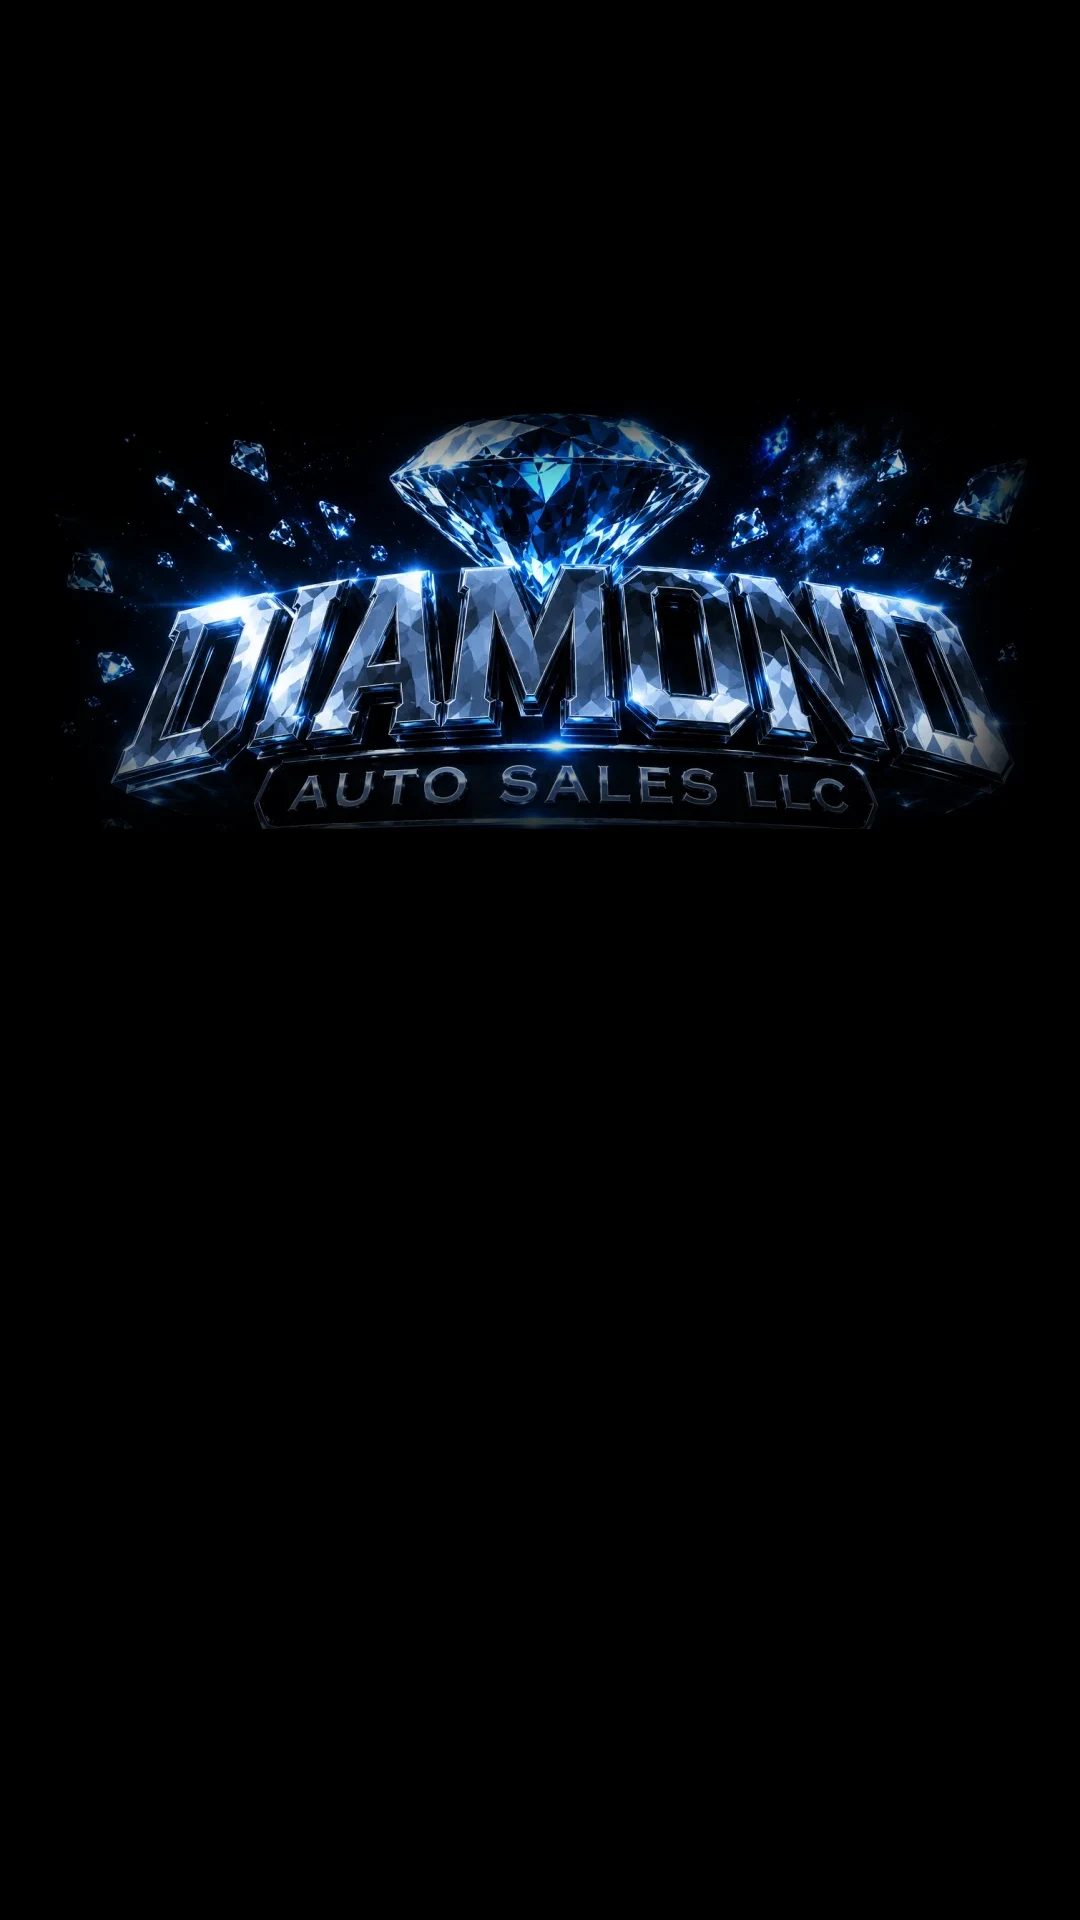
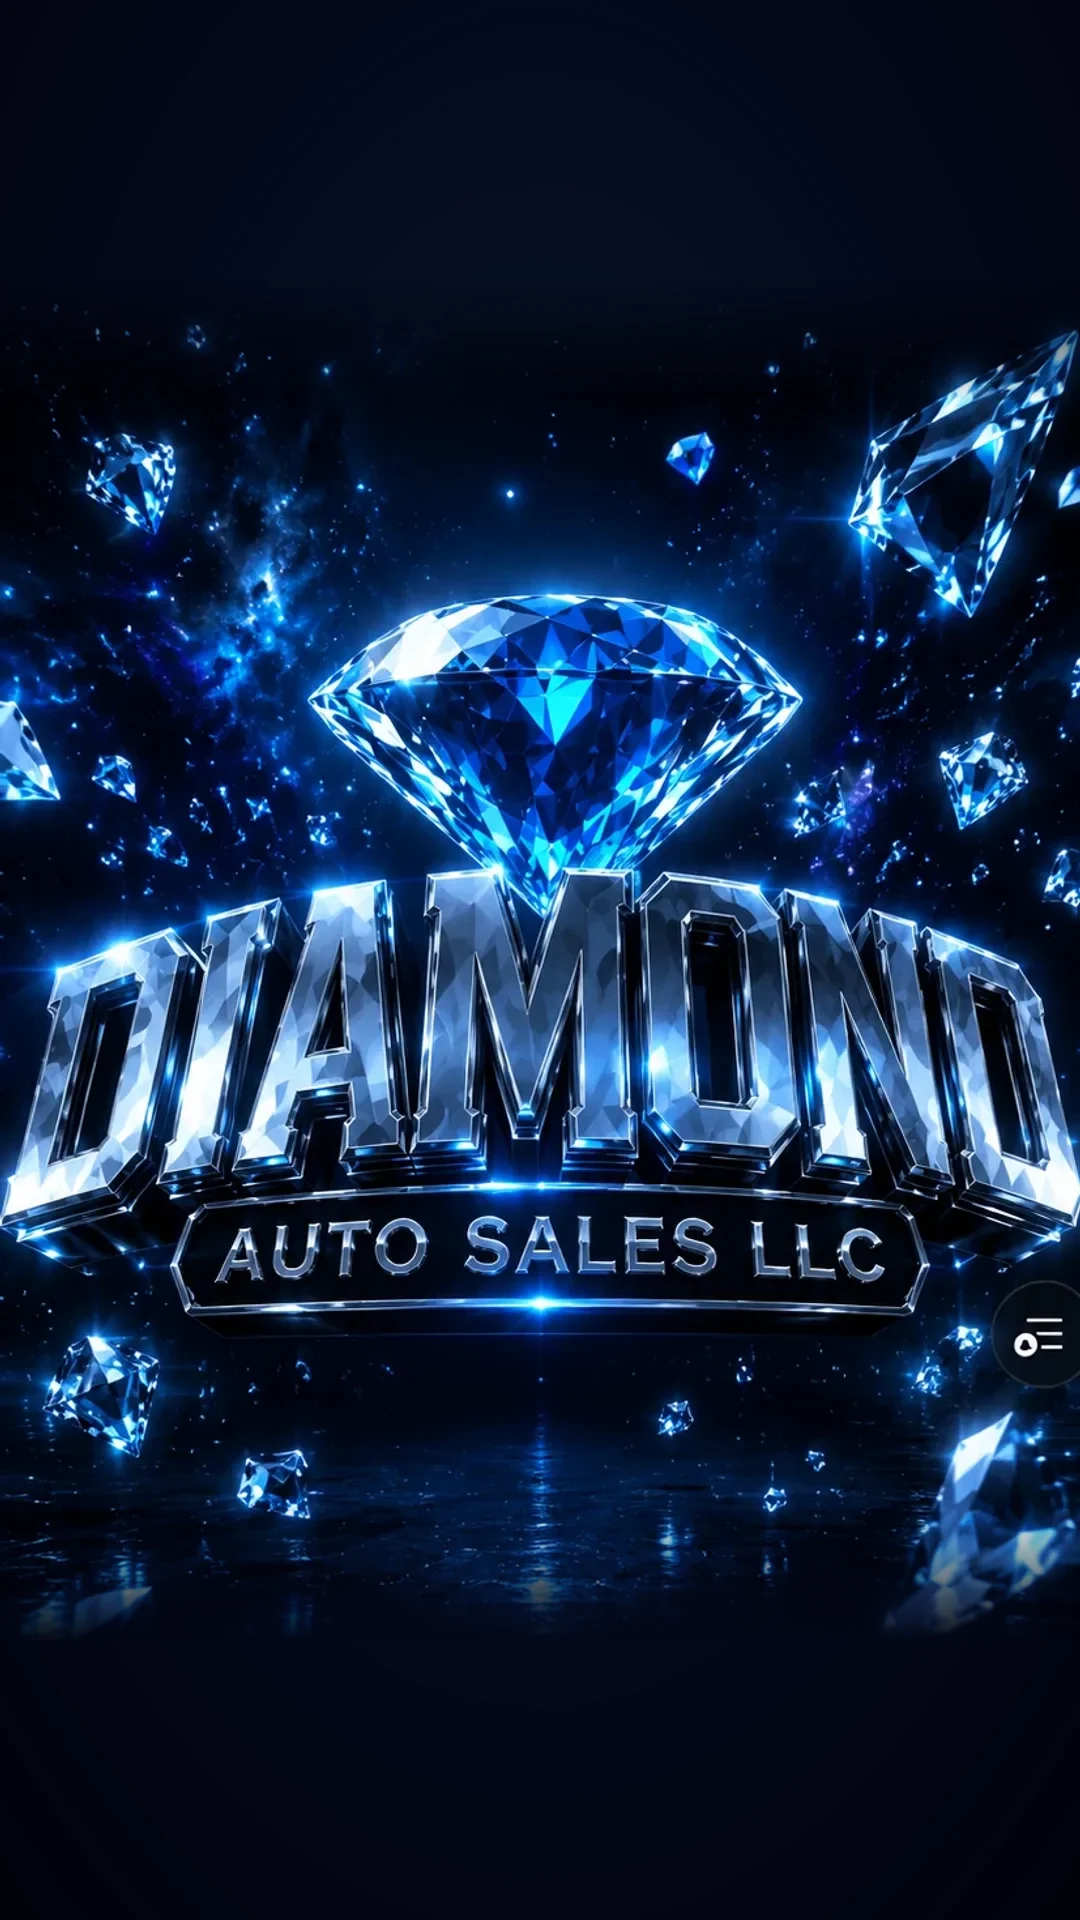
Lock mobile hero to dense reference composition (flat, temporary)
Per request: drop the reference scene in as the mobile hero asset to lock
the composition. Compose the dense scene (big diamond above full logo,
floating shards, nebula, floor reflections) onto a 9:16 frame with the
cosmic extended top/bottom so the wide logo isn't clipped by object-cover
and there's no empty black. Mobile shows this flat composition (live scene
disabled on coarse-pointer for now); desktop keeps the live layered scene.
CTAs sit just below, bottom gradient lightened so the floor shows.

Claude-Session: https://claude.ai/code/session_0183v9Wa41FprfpLiLFAJjKU

diff --git a/src/components/site/BrandHero.tsx b/src/components/site/BrandHero.tsx
@@ -39,7 +39,9 @@ function sceneMode(): "high" | "low" | "off" {
   const conn = (navigator as unknown as { connection?: { saveData?: boolean; effectiveType?: string } }).connection;
   if (conn?.saveData) return "off";
   if (conn?.effectiveType && /(^|-)2g$/.test(conn.effectiveType)) return "off";
-  return window.matchMedia("(pointer: coarse)").matches ? "low" : "high";
+  // Mobile (coarse pointer): keep the locked flat dense composition for now —
+  // the live layered scene is desktop-only until the mobile layers are rebuilt.
+  return window.matchMedia("(pointer: coarse)").matches ? "off" : "high";
 }
 
 export default function BrandHero() {
@@ -111,8 +113,9 @@ export default function BrandHero() {
         className="brand-glow-pulse pointer-events-none absolute inset-0 bg-[radial-gradient(42%_34%_at_50%_38%,rgba(60,150,255,0.30),transparent_70%)]"
       />
 
-      {/* LAYER 3–4: hero diamond + chrome logo art, screen-blended over the scene */}
-      <div ref={artRef} className="pointer-events-none absolute inset-0 will-change-transform" style={{ mixBlendMode: "screen" }}>
+      {/* LAYER 3–4: hero diamond + chrome logo art. On desktop it screen-blends
+          over the live scene; on mobile it's the locked flat dense composition. */}
+      <div ref={artRef} className="pointer-events-none absolute inset-0 will-change-transform sm:mix-blend-screen">
         <picture>
           <source media="(max-width: 640px)" srcSet="/hero/brand-hero-mobile.webp" />
           <img
@@ -129,8 +132,8 @@ export default function BrandHero() {
         </div>
       </div>
 
-      {/* legibility: bottom gradient under the UI */}
-      <div aria-hidden className="pointer-events-none absolute inset-x-0 bottom-0 h-56 bg-gradient-to-t from-black via-black/70 to-transparent" />
+      {/* legibility: bottom gradient under the UI (light enough to keep floor reflections) */}
+      <div aria-hidden className="pointer-events-none absolute inset-x-0 bottom-0 h-44 bg-gradient-to-t from-black via-black/55 to-transparent" />
 
       {/* LAYER 6: UI — stays perfectly readable while the scene moves */}
       <div className="relative z-10 flex flex-col items-center">
